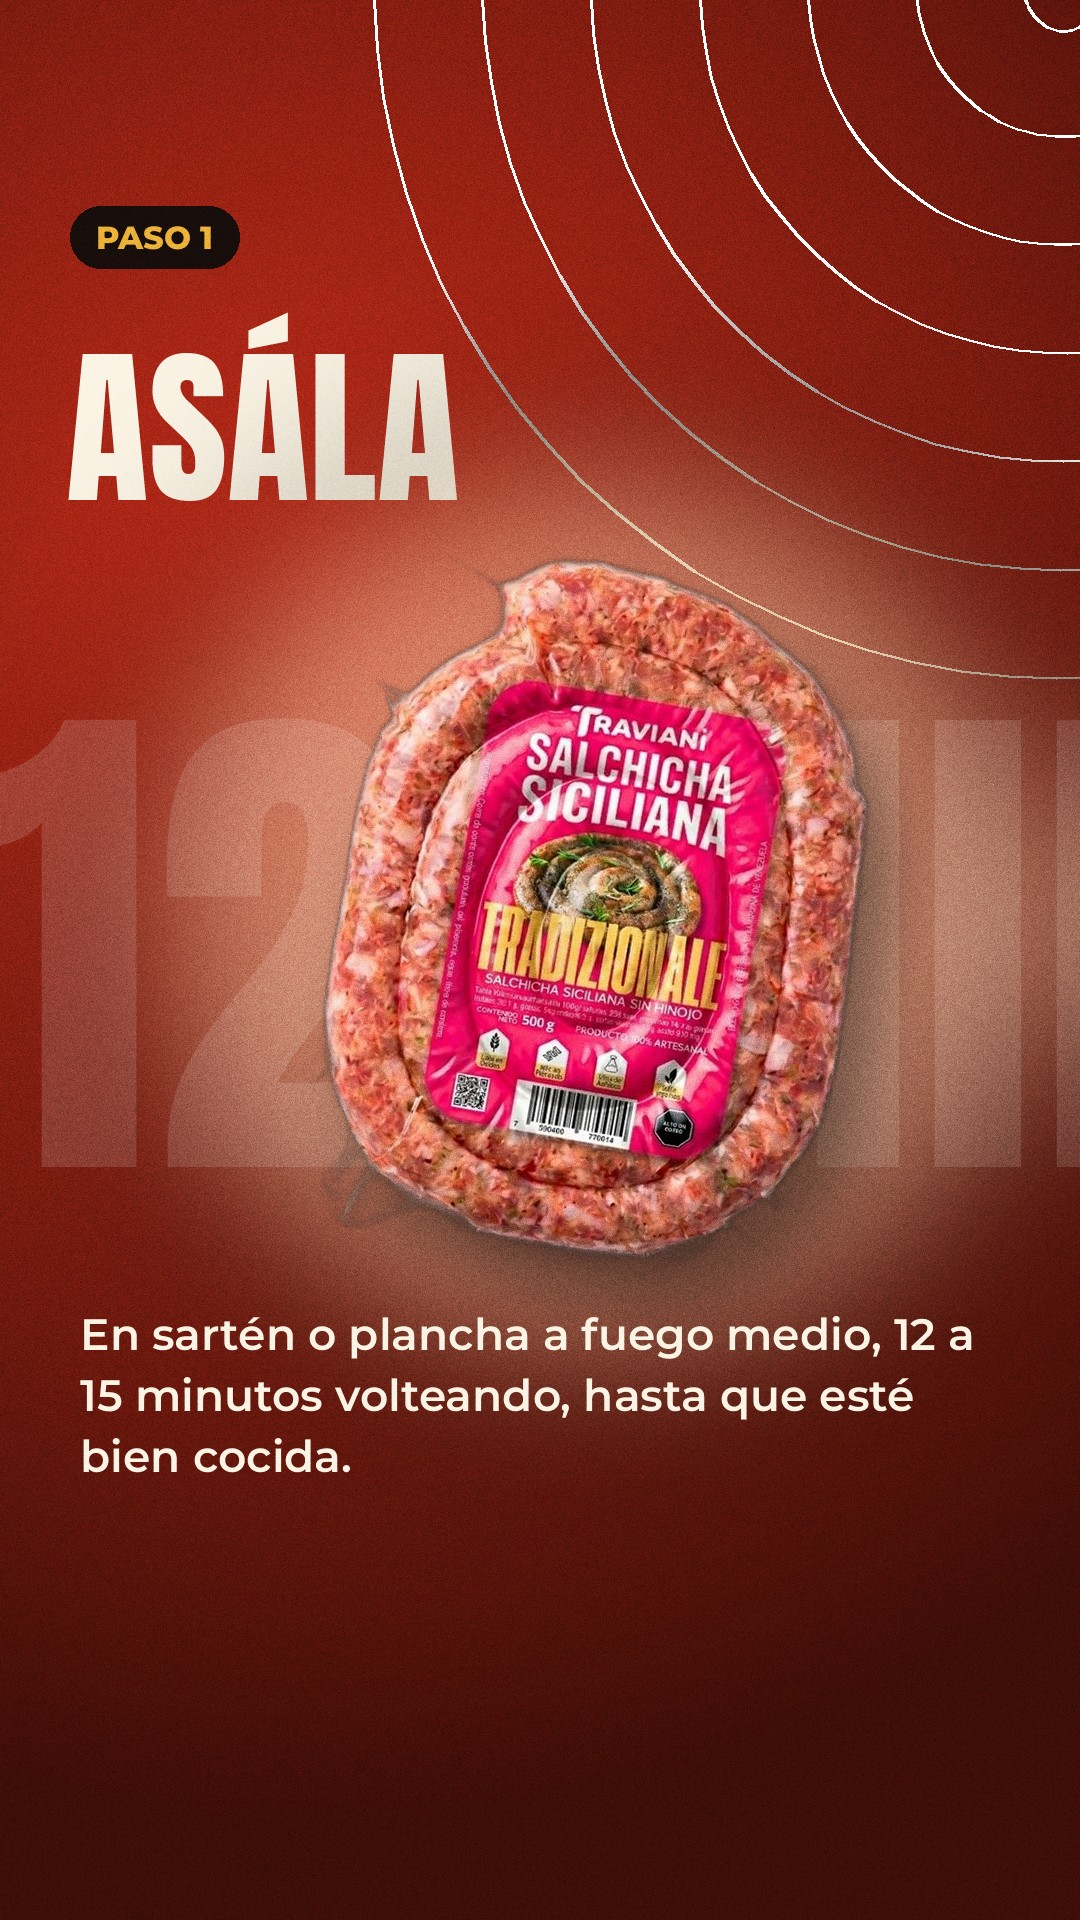
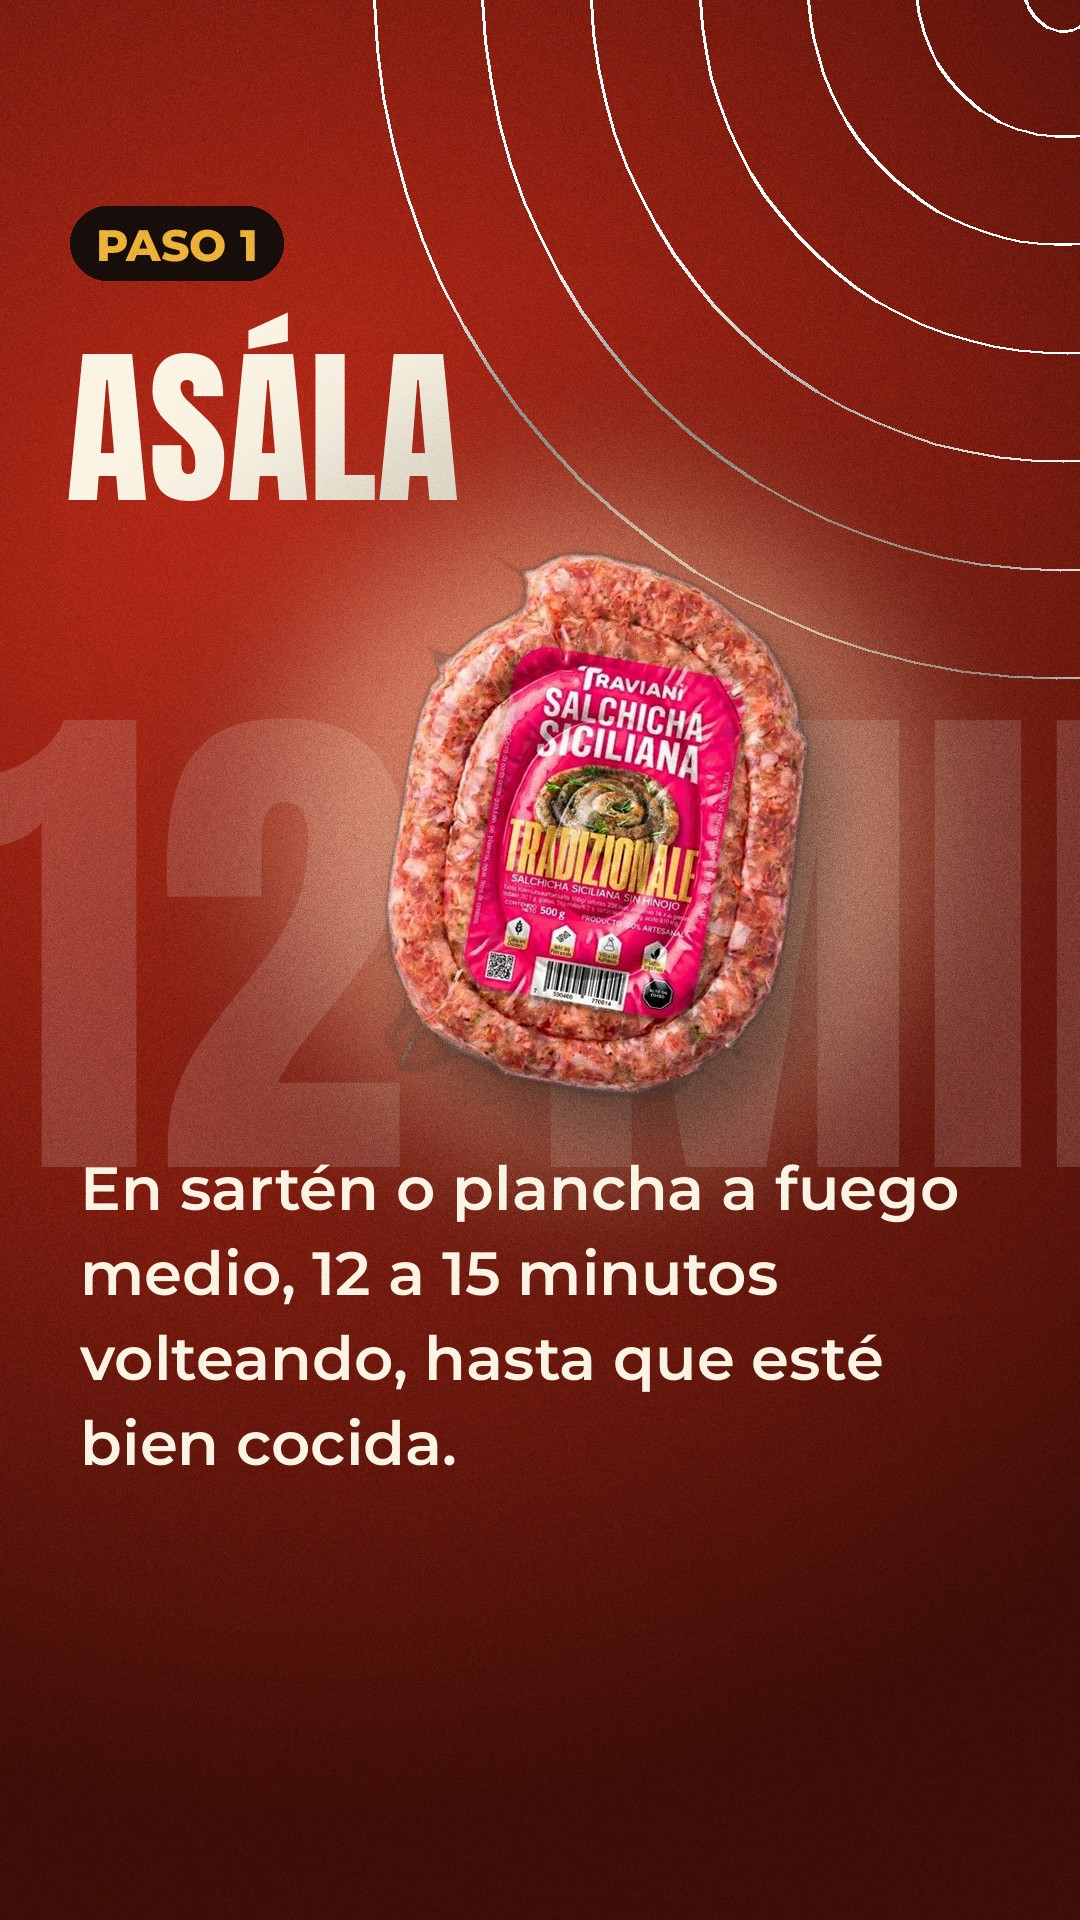
Día 9 v4: textos más grandes para teléfono (factor 1.4)
Claude-Session: https://claude.ai/code/session_01BoapLYkqJjC4bybfaGWR3T

Changed region(s): [[0.0611, 0.2812, 1.0, 0.7812], [0.0611, 0.0938, 0.275, 0.1562]]

diff --git a/disenos.py b/disenos.py
@@ -273,7 +273,8 @@ def lamina_cierre_parrilla(titulo, lineas, boton, total, fotos=(5, 1, 2), precio
     pastilla(d, 0, yb, boton, mont(42 if T else 38, "ExtraBold"), DORADO, OSCURO, pad=40, centrado=True)
     yy = yb + 110
     for l in lineas:
-        centrar(d, yy, l, mont(34 if T else 30, "Bold"), CREMA); yy += 48
+        fl = mont(34 if T else 30, "Bold")
+        centrar(d, yy, l, fl, CREMA); yy += int(fl.size * 1.4)
     if not T:
         pie(d, CREMA, total, total)
     return terminar(b)

diff --git a/dia08_v4.py b/dia08_v4.py
@@ -190,7 +190,8 @@ def cierre_mesa(titulo, lineas, boton, total, fotos=(2, 3, 1)):
     pastilla(d, 0, yb, boton, mont(42 if T else 38, "ExtraBold"), DORADO, OSCURO, pad=40, centrado=True)
     yy = yb + 110
     for l in lineas:
-        centrar(d, yy, l, mont(34 if T else 30, "Bold"), CREMA); yy += 48
+        fl = mont(34 if T else 30, "Bold")
+        centrar(d, yy, l, fl, CREMA); yy += int(fl.size * 1.4)
     if not T:
         pie(d, CREMA, total, total)
     return terminar(b)

diff --git a/generador.py b/generador.py
@@ -23,7 +23,12 @@ def anton(s):
     return ImageFont.truetype(f"{FONTS}/Anton-Regular.ttf", s)
 
 
+FACTOR = 1.0  # >1 agranda los textos de cuerpo (27-52 px); pie y otros textos chicos no cambian
+
+
 def mont(s, peso="Bold"):
+    if FACTOR != 1.0 and 27 <= s <= 52:
+        s = int(s * FACTOR)
     f = ImageFont.truetype(f"{FONTS}/Montserrat%5Bwght%5D.ttf", s)
     f.set_variation_by_name(peso)
     return f

diff --git a/dia09_v4.py b/dia09_v4.py
@@ -7,6 +7,7 @@ from dia08_v4 import foto_titulo
 from dia02_v4 import lista_con_empaque
 from contenido import WA, ENTREGA
 
+g.FACTOR = 1.4  # textos más grandes para verse bien en el teléfono
 ROJO = (196, 44, 26)
 CRE, DOR = g.CREMA, g.DORADO
 
